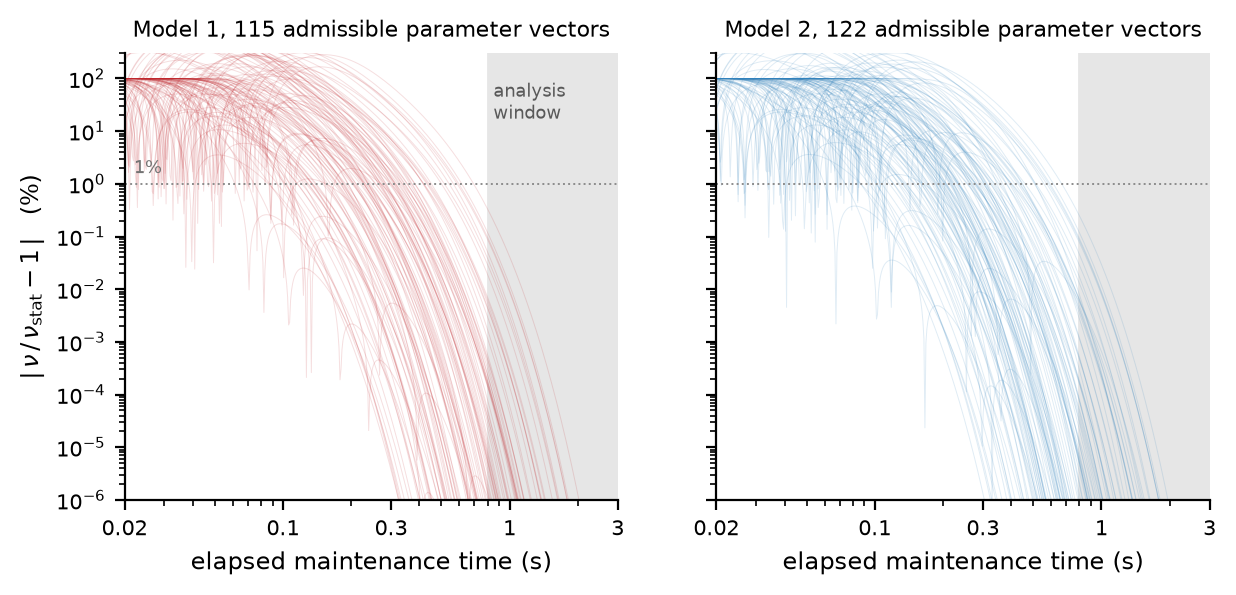
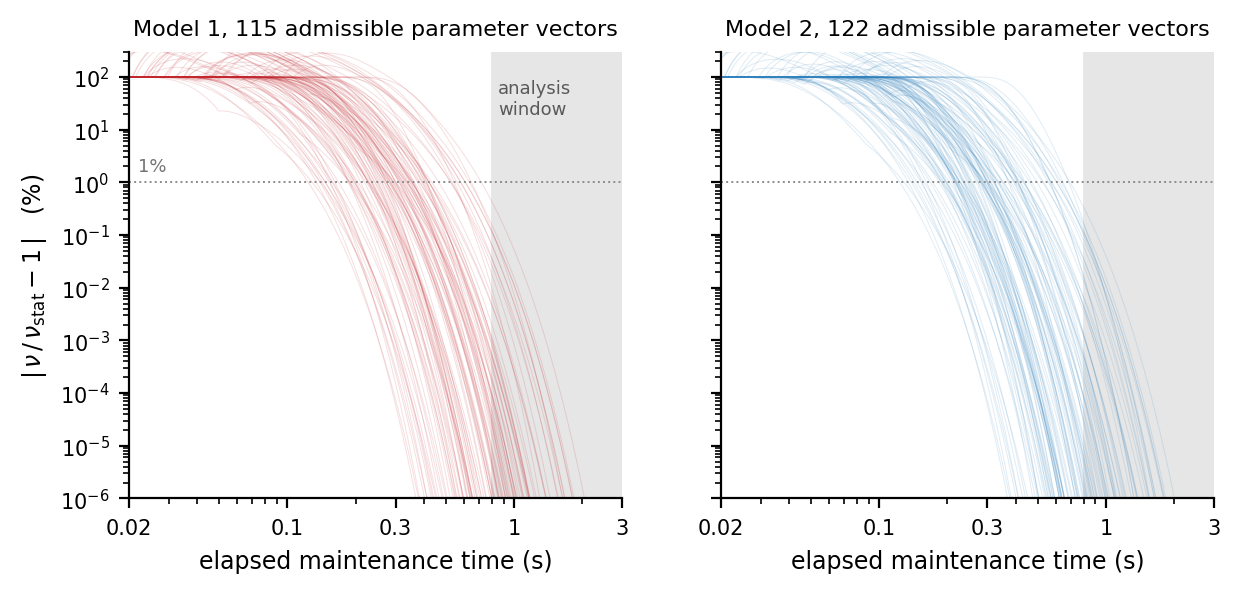
delay.tex, fig_approx_error.py, fig09: absorption, s_resp, Appendix corrections, approximation error over |m|, supplementary links
- Delay window (theory, results, model-data comparison, fig:shape caption): statements
  about Model 1's slope and curvature restricted to its stationary rate; departures of
  the simulated slope from zero attributed to the exclusion of the response-related
  activation (lowers the slope) and to the measurement on trials that did not respond
  before the RS (direction not fixed)
- Remark rem:scope, item 2: conditioning on survival described without a sign; the
  following "bounds from above" sentence replaced
- s_resp defined as the sign of y at maintenance onset; the choice stated as s_resp,
  the sign of y when accumulation stops
- Appendix: bound of the transient coefficients (1 or sqrt(lambda/kappa_eps)); (P1)
  range (0,1); eta < 1 added to the hypothesis of Corollary A.3; amplification of the
  third factor in its comment; title of Corollary A.4 on the stationary rate; sentence
  on the 20% error over the sampled box removed
- fig_approx_error.py: error taken as the largest over |m| from 0 to theta, and
  evaluated at the window start rho = 0.8 s; fig09 regenerated; text and caption values
  4.2e-3 (Model 1) and 3.3e-3 (Model 2)
- Supplemental Material: \theHfigure and \theHtable redefined; the three Results
  equations that repeat an Appendix equation with \tag set as equation*

Claude-Session: https://claude.ai/code/session_01RY8xm2Aka4qxgzj8hd5y2y

diff --git a/manuscript/latex/delay.tex b/manuscript/latex/delay.tex
@@ -177,7 +177,7 @@ The delayed-report extension specifies the locus and onset of maintenance, the m
 m = \begin{cases} s_{\mathrm{resp}}\theta, & \text{if } \theta \text{ was reached},\\ y(L_{\mathrm{motion}}+D), & \text{otherwise},\end{cases}
 \label{eq:m}
 \end{equation}
-where $s_{\mathrm{resp}}\in\{-1,+1\}$ codes the selected response, with $-1$ denoting the left-hand response and $+1$ the right-hand response, following the sign convention defined for $y(t)$. If the internal threshold $\theta$ is reached, $y(t)$ is set to the threshold value in the selected direction. Otherwise, the state attained when encoded motion evidence ceases is retained. Thus, the model does not require every trial to enter maintenance at the same level of motor preparation: weaker or briefer evidence can leave a lower maintained state.
+where $s_{\mathrm{resp}}:=\operatorname{sign}y(\tau)\in\{-1,+1\}$, the sign of the motor-preparatory signal at maintenance onset, codes the selected response, with $-1$ denoting the left-hand response and $+1$ the right-hand response, following the sign convention defined for $y(t)$. If the internal threshold $\theta$ is reached, $y(t)$ is set to the threshold value in the selected direction. Otherwise, the state attained when encoded motion evidence ceases is retained. Thus, the model does not require every trial to enter maintenance at the same level of motor preparation: weaker or briefer evidence can leave a lower maintained state.
 
 \emph{Maintenance dynamics.} The maintenance mechanism is identical in the two candidate models. Once maintenance begins, the input to the low-pass filter generating $y(t)$ switches from the evolving decision variable $x(t)$ to the maintenance target $m$. Because the filter causes $y(t)$ to track its input, a constant input $m$ causes $y(t)$ to converge toward $m$ and remain there in the absence of noise. Such stable maintenance has a plausible neural basis in attractor dynamics, in which strong recurrent interactions can sustain a stable activity state after the external evidence driving the system is no longer present \parencite{wangDecisionMakingRecurrent2008}. At the same time, neural activity within such recurrent networks is intrinsically variable, making perfectly stationary maintenance at the single-trial level unlikely. To capture this variability without specifying its detailed circuit-level origin, we allowed the effective maintenance input to fluctuate around $m$. These fluctuations, denoted $\varepsilon(t)$, followed an Ornstein--Uhlenbeck process:
 \begin{equation}
@@ -288,7 +288,7 @@ The first subsection concerns accuracy, RT, premotor time and motor time. Each o
 
 The two models differ in one term, the temporal preparation of magnitude $\beta$, which enters through $\delta:=t_{\mathrm{RS}}-t_{\mathrm{offset}}=3+L_{\mathrm{RS}}-L_{\mathrm{motion}}$. Stimulus duration cancels from $\delta$, so temporal preparation adds the same amount in all six coherence $\times$ duration conditions and can generate no effect of coherence, of duration, or of their interaction. Every prediction below therefore holds in both models, with the same sign.
 
-The choice is the sign of $x$ when accumulation stops. By Equation~\eqref{eq:x} its drift is $skc$, so accuracy rises with coherence and with the time for which Equation~\eqref{eq:x} runs, hence with duration. The duration benefit is confined to intermediate coherence, which is a coherence $\times$ duration interaction on accuracy: at $c=0$ the drift vanishes and accuracy is 50\% whatever the duration, and at the highest coherence the threshold $\theta$ is typically reached within the short stimulus, so accumulation stops before the extra time can be used.
+The choice is $s_{\mathrm{resp}}$, the sign of $y$ when accumulation stops. The signal $y$ follows $x$ (Equation~\eqref{eq:y}), whose drift is $skc$ by Equation~\eqref{eq:x}, so accuracy rises with coherence and with the time for which Equation~\eqref{eq:x} runs, hence with duration. The duration benefit is confined to intermediate coherence, which is a coherence $\times$ duration interaction on accuracy: at $c=0$ the drift vanishes and accuracy is 50\% whatever the duration, and at the highest coherence the threshold $\theta$ is typically reached within the short stimulus, so accumulation stops before the extra time can be used.
 
 After the RS, the second accumulation carries the signal from the maintenance target $m$ to the response criterion, at the drift $\mu_{\mathrm{RS}}$ of Equation~\eqref{eq:q}, which does not depend on the condition. Coherence and duration therefore act on RT only through $m$ (Appendix, Remark~\ref{rem:leak}). By Equation~\eqref{eq:m}, $m$ is $s_{\mathrm{resp}}\theta$ on trials that reached the threshold and $y(L_{\mathrm{motion}}+D)$ on the others. Higher coherence or longer stimulus duration increases $|m|$ on average, which shortens RT. Once the threshold is reached, however, $|m|$ is fixed at $\theta$. After a longer stimulus, more trials reach $\theta$, which reduces the differences in $|m|$ across coherence levels. At most parameter values, this produces a coherence $\times$ duration interaction on RT: the coherence effect is larger after the 0.3-s stimulus than after the 2-s stimulus.
 
@@ -356,24 +356,24 @@ a(t):=\frac{g-|m|-\dfrac{\beta}{\delta}\left(t-t_{\mathrm{offset}}\right)^{+}}{\
 \label{eq:a}
 \end{equation}
 Here $(t-t_{\mathrm{offset}})^{+}$ is the time elapsed since the internal stimulus offset, set to zero before it. Temporal preparation reduces the distance to the gate at the constant speed $\beta/\delta$. As long as $a(t)$ is positive, a smaller value means that motor preparation is closer to the gate relative to the fluctuations, which makes partial muscle activations more frequent. Writing $\sigma_{\dot{H}}$ for the standard deviation of the time derivative of the settled fluctuation and $\omega:=\sqrt{\lambda\kappa_{\varepsilon}}$ for its characteristic frequency, the rate on the window is its stationary form:
-\begin{equation}
+\begin{equation*}
 \nustat(t)=\varphi\left(a(t)\right)\left[\frac{\beta}{\delta\sigma_{H}}\Phi\left(\frac{\beta}{\delta\sigma_{\dot{H}}}\right)+\omega\,\varphi\left(\frac{\beta}{\delta\sigma_{\dot{H}}}\right)\right],
 \tag{\ref{eq:nu_asymp}}
-\end{equation}
-where $\varphi$ and $\Phi$ are the standard normal density and distribution function. Evaluated exactly over the admissible parameter vectors, the exact rate and its stationary form differ by at most $3.1\times10^{-3}$ in relative terms under Model 1 and $2.3\times10^{-3}$ under Model 2 (Fig.~\ref{fig:approx}; Appendix, Corollary~\ref{cor:approx}). Setting $\beta=0$ (Model 1) makes $a(t)$ constant, equal to $a=(g-|m|)/\sigma_{H}$, and recovers the classical Rice formula, in which the rate falls as a Gaussian in the standardized distance to the gate:
-\begin{equation}
+\end{equation*}
+where $\varphi$ and $\Phi$ are the standard normal density and distribution function. Evaluated exactly over the admissible parameter vectors and over maintenance targets $|m|$ from 0 to $\theta$, the exact rate and its stationary form differ by at most $4.2\times10^{-3}$ in relative terms under Model 1 and $3.3\times10^{-3}$ under Model 2 (Fig.~\ref{fig:approx}; Appendix, Corollary~\ref{cor:approx}). Setting $\beta=0$ (Model 1) makes $a(t)$ constant, equal to $a=(g-|m|)/\sigma_{H}$, and recovers the classical Rice formula, in which the rate falls as a Gaussian in the standardized distance to the gate:
+\begin{equation*}
 \nustat=\frac{\omega}{2\pi}e^{-a^{2}/2}.
 \tag{\ref{eq:nu1}}
-\end{equation}
+\end{equation*}
 Three properties of the delay-window partial muscle activation rate follow: whether it ramps over the window, the shape of any ramp, and how its level differs across conditions.
 
 \paragraph{The slope}
 
-Under Model 1 the numerator of $a$ is the constant $g-|m|$ and the denominator is constant as well, so by Equation~\eqref{eq:nu1} the rate does not depend on time. Model 1 predicts a slope of zero, at every value of $\kappa_{\varepsilon}$, of $\lambda$, and of the maintenance target (Appendix, Corollary~\ref{cor:flat}). Under Model 2 the numerator falls at the constant speed $\beta/\delta$, so the rate rises throughout the delay. Taking logarithms in Equation~\eqref{eq:nu_asymp} gives that rise in closed form (Appendix, Corollary~\ref{cor:logslope}):
-\begin{equation}
+Under Model 1 the numerator of $a$ is the constant $g-|m|$ and the denominator is constant as well, so by Equation~\eqref{eq:nu1} the stationary rate does not depend on time. Model 1's stationary rate has a slope of zero, at every value of $\kappa_{\varepsilon}$, of $\lambda$, and of the maintenance target (Appendix, Corollary~\ref{cor:flat}). Under Model 2 the numerator falls at the constant speed $\beta/\delta$, so the rate rises throughout the delay. Taking logarithms in Equation~\eqref{eq:nu_asymp} gives that rise in closed form (Appendix, Corollary~\ref{cor:logslope}):
+\begin{equation*}
 \frac{\dd\left(\ln\nustat\right)}{\dd t}(t)=\frac{\beta}{\delta\sigma_{H}}\,a(t), \qquad \frac{\dd^{2}\left(\ln\nustat\right)}{\dd t^{2}}(t)=-\left(\frac{\beta}{\delta\sigma_{H}}\right)^{2}.
 \tag{\ref{eq:slope}}
-\end{equation}
+\end{equation*}
 The observed slope is that of the rate, not of its logarithm. The time derivative of the rate,
 \begin{equation*}
 \frac{\dd\nustat}{\dd t}(t)=\nustat(t)\,\frac{\beta}{\delta\sigma_{H}}\,a(t),
@@ -382,7 +382,7 @@ is the product of two quantities: how often partial muscle activations occur, an
 
 \paragraph{The curvature}
 
-Under Model 1 the rate is constant, so its curvature is zero at every parameter value. Under Model 2, the mean rate of a condition is convex wherever the rate-weighted mean of $a(t)^{2}$ exceeds 1 (Appendix, Corollary~\ref{cor:logslope}), in particular wherever every contributing trial stands more than one fluctuation standard deviation from the gate. A positive curvature is therefore excluded by Model 1 and produced by Model 2 over that part of its parameter space.
+Under Model 1 the stationary rate is constant, so its curvature is zero at every parameter value. Under Model 2, the mean rate of a condition is convex wherever the rate-weighted mean of $a(t)^{2}$ exceeds 1 (Appendix, Corollary~\ref{cor:logslope}), in particular wherever every contributing trial stands more than one fluctuation standard deviation from the gate. A positive curvature is therefore absent from Model 1's stationary rate and produced by Model 2 over that part of its parameter space.
 
 \paragraph{The coherence $\times$ duration interaction}
 
@@ -395,9 +395,9 @@ The two EEG measures provide complementary indices of effector-selective prepara
 
 \paragraph{Partial muscle activation rate}
 
-Figure~\ref{fig:pmaeeg}A shows that the partial muscle activation rate continued to increase during the delay. Its slope across the delay window was 0.560 s$^{-2}$ [0.364, 0.757] (F(1,21) = 35.24, p < .001, $\eta_{p}^{2}$ = 0.627; Table~\ref{tab:pma}). This increase is best attributed to temporal preparation rather than to continued evidence accumulation: the effect of coherence on the slope, the marker of accumulation, was not significant in this window (F(1.70,35.61) = 0.52, p = .567, $\eta_{p}^{2}$ = 0.024), nor was its interaction with duration (F(1.74,36.45) = 0.51, p = .580, $\eta_{p}^{2}$ = 0.024). Model 1 cannot produce this slope at any parameter value (Theoretical predictions, above).
+Figure~\ref{fig:pmaeeg}A shows that the partial muscle activation rate continued to increase during the delay. Its slope across the delay window was 0.560 s$^{-2}$ [0.364, 0.757] (F(1,21) = 35.24, p < .001, $\eta_{p}^{2}$ = 0.627; Table~\ref{tab:pma}). This increase is best attributed to temporal preparation rather than to continued evidence accumulation: the effect of coherence on the slope, the marker of accumulation, was not significant in this window (F(1.70,35.61) = 0.52, p = .567, $\eta_{p}^{2}$ = 0.024), nor was its interaction with duration (F(1.74,36.45) = 0.51, p = .580, $\eta_{p}^{2}$ = 0.024). Model 1's stationary rate is constant at every parameter value (Theoretical predictions, above).
 
-The rate did not merely rise; it accelerated. Its curvature was 0.210 s$^{-3}$ [0.109, 0.310] (F(1,21) = 18.89, p < .001, $\eta_{p}^{2}$ = 0.474), the sign Model 1 excludes. Neither duration (F(1,21) = 0.75, p = .396) nor coherence (F(1.95,40.89) = 1.86, p = .170) modulated the curvature.
+The rate did not merely rise; it accelerated. Its curvature was 0.210 s$^{-3}$ [0.109, 0.310] (F(1,21) = 18.89, p < .001, $\eta_{p}^{2}$ = 0.474), a sign absent from Model 1's stationary rate. Neither duration (F(1,21) = 0.75, p = .396) nor coherence (F(1.95,40.89) = 1.86, p = .170) modulated the curvature.
 
 The mean rate was higher after the 2-s than after the 0.3-s stimulus (F(1,21) = 33.19, p < .001, $\eta_{p}^{2}$ = 0.612), and this difference increased over the window (duration effect on the slope: F(1,21) = 11.90, p = .002, $\eta_{p}^{2}$ = 0.362). This is the reverse of the ordering seen in the stimulus-onset window, consistent with the different temporal alignment of the two windows. The mean rate was higher at higher coherence (F(1.96,41.15) = 3.36, p = .045, $\eta_{p}^{2}$ = 0.138), and a duration $\times$ coherence interaction (F(1.92,40.42) = 3.47, p = .042, $\eta_{p}^{2}$ = 0.142) showed a larger coherence effect after the 2-s than after the 0.3-s stimulus. This is the direction the derivation allows only where the 0\%-coherence, 2-s condition has mostly not reached $\theta$ (Theoretical predictions, above). It is also the opposite of the coherence $\times$ duration interaction on mean premotor time, whose coherence effect was larger after the 0.3-s stimulus. Selective exclusion of the most prepared trials through responses before the RS is an unlikely explanation, because such responses were rare (Fig.~\ref{fig:premature}).
 
@@ -416,7 +416,7 @@ Six effects were compared (Table~\ref{tab:comparison}; Fig.~\ref{fig:effects}O--
 
 \paragraph{The slope}
 
-The slope of Model 1's rate is zero (Corollary~\ref{cor:flat}). Over its 115 admissible vectors, the simulated slope ranges from $-$0.069 to 0.004 s$^{-2}$, and no vector reproduces the observed 0.560 s$^{-2}$ [0.364, 0.757]. The negative values come from the measurement, not from the model: the activation that becomes the response is excluded from the partial muscle activation count wherever it begins, and in the model it occasionally begins inside the last bins of the window (Appendix, Remark~\ref{rem:scope}). Over Model 2's 122 vectors the slope ranges from $-$0.039 to 0.956 s$^{-2}$, and 6 vectors reproduce the observed value. Figure~\ref{fig:shape} shows the profiles: every admissible vector of Model 1 is flat, whereas Model 2's fan out, many of them tracking the observed rise.
+The slope of Model 1's stationary rate is zero (Corollary~\ref{cor:flat}). Over its 115 admissible vectors, the simulated slope ranges from $-$0.069 to 0.004 s$^{-2}$, and no vector reproduces the observed 0.560 s$^{-2}$ [0.364, 0.757]. These values depart from zero because of the measurement, not of the stationary rate (Appendix, Remark~\ref{rem:scope}). The activation that becomes the response is excluded from the partial muscle activation count wherever it begins, and in the model it occasionally begins inside the last bins of the window, which lowers the slope. The rate is measured on the trials that did not respond before the RS, which changes it in a direction the derivation does not fix. Over Model 2's 122 vectors the slope ranges from $-$0.039 to 0.956 s$^{-2}$, and 6 vectors reproduce the observed value. Figure~\ref{fig:shape} shows the profiles: every admissible vector of Model 1 is flat, whereas Model 2's fan out, many of them tracking the observed rise.
 
 The duration effect on the slope (2 s minus 0.3 s; 0.135 s$^{-2}$ [0.054, 0.217]) separates the models in the same way. No Model 1 vector reproduces it (values from $-$0.047 to 0.006 s$^{-2}$; observed sign at 5 vectors, opposite sign at 30, uncertain at 80), whereas 17 Model 2 vectors do (values from $-$0.027 to 0.726 s$^{-2}$; observed sign at 81, opposite at 9, uncertain at 32).
 
@@ -528,7 +528,7 @@ In conclusion, delayed decision reports are not generated by storing an abstract
 
 \begin{center}\includegraphics[width=\linewidth]{figures/fig07.png}\end{center}
 
-\captionof{figure}{\textbf{Shape of the delay-window partial muscle activation rate, one line per admissible parameter vector.} Each thin line is the delay-window partial muscle activation rate at one admissible vector, divided by its own mean over the window, so that vectors whose rates differ by two orders of magnitude can be compared on shape; the thick line is the median over vectors and the black points the observed profile, normalized the same way. Every admissible vector of Model 1 is flat, as Corollary~\ref{cor:flat} requires, apart from a decline in the last bins caused by the exclusion of the response-related activation from the partial muscle activation count (Remark~\ref{rem:scope}); Model 2's vectors fan out, many of them tracking the observed rise.}\label{fig:shape}
+\captionof{figure}{\textbf{Shape of the delay-window partial muscle activation rate, one line per admissible parameter vector.} Each thin line is the delay-window partial muscle activation rate at one admissible vector, divided by its own mean over the window, so that vectors whose rates differ by two orders of magnitude can be compared on shape; the thick line is the median over vectors and the black points the observed profile, normalized the same way. Every admissible vector of Model 1 is flat, as Corollary~\ref{cor:flat} requires of the stationary rate, apart from departures in the last bins caused by the measurement (Remark~\ref{rem:scope}); Model 2's vectors fan out, many of them tracking the observed rise.}\label{fig:shape}
 
 \begin{center}\includegraphics[width=\linewidth]{figures/fig08.png}\end{center}
 
@@ -536,7 +536,7 @@ In conclusion, delayed decision reports are not generated by storing an abstract
 
 \begin{center}\includegraphics[width=\linewidth]{figures/fig09.png}\end{center}
 
-\captionof{figure}{\textbf{Error of the stationary approximation, over the admissible parameter vectors.} Each thin line is one admissible vector: the relative difference between the exact partial muscle activation rate, Equation~\eqref{eq:nu2} with the transient moments of Equation~\eqref{eq:moments}, and its stationary form, Equation~\eqref{eq:nu_asymp}, as a function of elapsed maintenance time. Both axes are logarithmic. The shaded band marks elapsed maintenance times of 0.8 s and more, which contain the whole delay analysis window (Proposition~\ref{prop:stationary}). Left, Model 1; right, Model 2. Inside the window the largest departure is 0.31\% under Model 1 and 0.23\% under Model 2.}\label{fig:approx}
+\captionof{figure}{\textbf{Error of the stationary approximation, over the admissible parameter vectors.} Each thin line is one admissible vector: the largest, over maintenance targets $|m|$ from 0 to $\theta$, of the relative difference between the exact partial muscle activation rate, Equation~\eqref{eq:nu2} with the transient moments of Equation~\eqref{eq:moments}, and its stationary form, Equation~\eqref{eq:nu_asymp}, as a function of elapsed maintenance time. Both axes are logarithmic. The shaded band marks elapsed maintenance times of 0.8 s and more, which contain the whole delay analysis window (Proposition~\ref{prop:stationary}). Left, Model 1; right, Model 2. Inside the window the largest departure is 0.42\% under Model 1 and 0.33\% under Model 2.}\label{fig:approx}
 
 
 \section{Tables}
@@ -692,7 +692,7 @@ At every time $t$ of the delay analysis window, and over the ranges of Table~\re
 \end{equation}
 \end{proposition}
 
-Each moment of $H$ is the corresponding stationary moment plus terms proportional to $e^{-\lambda\rho}$ or $e^{-2\lambda\rho}$, whose coefficients are correlations, hence at most 1 in absolute value. On the window, $e^{-\lambda\rho}$ is small.
+Each moment of $H$ is the corresponding stationary moment plus terms proportional to $e^{-\lambda\rho}$ or $e^{-2\lambda\rho}$, whose coefficients are bounded in absolute value by 1 or by $\sqrt{\lambda/\kappa_{\varepsilon}}$. On the window, $e^{-\lambda\rho}$ is small.
 
 \begin{proof}
 Write $t:=\tau+\rho$. By Proposition~\ref{prop:H}(i) and Equation~\eqref{eq:Hdot},
@@ -729,7 +729,7 @@ The Kac--Rice formula gives the rate of upcrossings as the density of the proces
 \begin{equation}\label{eq:Psi}
 \Psi(x,\zeta):=\E\left[\xi^{+}\right]=x\Phi(x/\zeta)+\zeta\varphi(x/\zeta).
 \end{equation}
-Three properties are used below. (P1) The partial derivatives are $\partial\Psi/\partial x=\Phi(x/\zeta)\in(0,1]$ and $\partial\Psi/\partial\zeta=\varphi(x/\zeta)\in(0,\varphi(0)]$; both follow from $\varphi'(x)=-x\varphi(x)$, which makes the terms in $(x/\zeta)\varphi(x/\zeta)$ cancel. (P2) $\Psi(cx,c\zeta)=c\Psi(x,\zeta)$ for $c>0$. (P3) $\Psi(0,\zeta)=\zeta\varphi(0)$.
+Three properties are used below. (P1) The partial derivatives are $\partial\Psi/\partial x=\Phi(x/\zeta)\in(0,1)$ and $\partial\Psi/\partial\zeta=\varphi(x/\zeta)\in(0,\varphi(0)]$; both follow from $\varphi'(x)=-x\varphi(x)$, which makes the terms in $(x/\zeta)\varphi(x/\zeta)$ cancel. (P2) $\Psi(cx,c\zeta)=c\Psi(x,\zeta)$ for $c>0$. (P3) $\Psi(0,\zeta)=\zeta\varphi(0)$.
 
 \paragraph{The general rate.} Throughout this subsection, $d=d(t)$ and the moments of Equation~\eqref{eq:moments} are taken at $\rho=t-\tau$. Let $Z\left(t\right):={s}_{\mathrm{resp}}H\left(t\right)-d\left(t\right)$. Upcrossings of $d$ by ${s}_{\mathrm{resp}}H$ are upcrossings of zero by $Z$, and $\dot{Z}={s}_{\mathrm{resp}}\dot{H}+\beta /\delta$. Trajectories that reach the response criterion before the end of the delay are neglected. They are premature responses, excluded from the empirical analysis and, together with the other excluded trials, held to at most 20\% of the trials of each condition by the admissibility screen. Since $H$ has continuously differentiable paths and $\left(Z,\dot{Z}\right)$ is jointly Gaussian and non-degenerate for $\rho >0$, the Kac--Rice formula gives the expected upcrossing rate \parencite[ch. 3]{azaisLevelSetsExtrema2009}:
 \begin{equation}
@@ -758,7 +758,7 @@ for the distance to the gate in units of the fluctuation, the characteristic fre
 It is the product of two factors. The first is a Gaussian in the standardized distance to the gate; this is where the conditions and the time within the delay act. The second, $\Psi(b,\omega)$, depends on neither the motion coherence nor the stimulus duration, and temporal preparation enters it only through $b$.
 
 \begin{corollary}[error of the stationary rate]\label{cor:approx}
-Let $t$ be a time in the delay analysis window, $a:=a(t)$, and $\eta :=\max \left(\left|u\left(\rho \right)\right|,\left|v\left(\rho \right)\right|,\left|w\left(\rho \right)\right|\right)$, with $u$, $v$ and $w$ as in Equation~\eqref{eq:moments}. If
+Let $t$ be a time in the delay analysis window, $a:=a(t)$, and $\eta :=\max \left(\left|u\left(\rho \right)\right|,\left|v\left(\rho \right)\right|,\left|w\left(\rho \right)\right|\right)$, with $u$, $v$ and $w$ as in Equation~\eqref{eq:moments}. If $\eta<1$ and
 \begin{equation*}
 \left(\sqrt{2\pi}|a|+1\right)\frac{\eta}{1-\eta}\le\frac{1}{2},
 \end{equation*}
@@ -768,10 +768,10 @@ then
 \end{equation*}
 \end{corollary}
 
-The ratio of the two rates is a product of three factors. Each departs from 1 by a relative amount of order $\eta$. The first, a Gaussian density evaluated at the distance to the gate, amplifies that departure by $a^{2}/2$.
+The ratio of the two rates is a product of three factors. Each departs from 1 by a relative amount of order $\eta$. The first, a Gaussian density evaluated at the distance to the gate, amplifies that departure by $a^{2}/2$. The third, the expected positive part of the slope at the gate, amplifies it by $\sqrt{2\pi}|a|+1$.
 
 \begin{proof}
-Write $u:=u(\rho)$, $v:=v(\rho)$ and $w:=w(\rho)$. The hypothesis implies $\eta<1$, so $1+u\ge 1-\eta>0$. Two elementary facts are used. (F1) $|\ln(1+x)|\le|x|/(1-|x|)$ for $|x|<1$; this follows from $\ln(1+x)\le x$ for $x\ge 0$, and from $-\ln(1-|x|)=\ln\left(1+|x|/(1-|x|)\right)$ for $x<0$. (F2) $|\sqrt{1+z}-1|=|z|/(\sqrt{1+z}+1)\le|z|$ for $z>-1$.
+Write $u:=u(\rho)$, $v:=v(\rho)$ and $w:=w(\rho)$. Since $\eta<1$, $1+u\ge 1-\eta>0$. Two elementary facts are used. (F1) $|\ln(1+x)|\le|x|/(1-|x|)$ for $|x|<1$; this follows from $\ln(1+x)\le x$ for $x\ge 0$, and from $-\ln(1-|x|)=\ln\left(1+|x|/(1-|x|)\right)$ for $x<0$. (F2) $|\sqrt{1+z}-1|=|z|/(\sqrt{1+z}+1)\le|z|$ for $z>-1$.
 
 \emph{The ratio as a product.} By Equation~\eqref{eq:moments}, $\sigma_{H}(\rho)=\sigma_{H}\sqrt{1+u}$, so $d/\sigma_{H}(\rho)=a/\sqrt{1+u}$. By (P2), $\nustat(t)=\varphi(a)\Psi\left(\beta/\delta,\sigma_{\dot{H}}\right)/\sigma_{H}$. Dividing Equation~\eqref{eq:nu2} by this expression,
 \begin{equation*}
@@ -813,9 +813,9 @@ and $\bar{x}\le 1/2$ by hypothesis. By (F1), its logarithm is at most $\bar{x}/(
 
 \end{proof}
 
-The moment error is therefore amplified by the squared standardized distance to the gate: $a\left(t\right)$ enters the rate through a Gaussian, so what the transient does to ${\sigma }_{H}^{2}$ it does to the log rate ${a\left(t\right)}^{2}/2$ times over. By Proposition~\ref{prop:stationary}, $\eta <4.8\times {10}^{-3}$ everywhere in the window, so the hypothesis holds whenever $|a(t)|\le 40$. Evaluated exactly, the largest relative departure of $\nu \left(t\right)$ (Equation~\eqref{eq:nu2} at the moments of Equation~\eqref{eq:moments}) from $\nustat \left(t\right)$ (Equation~\eqref{eq:nu_asymp}), over the admissible parameter vectors and the whole window, is $3.1\times {10}^{-3}$ under Model 1 and $2.3\times {10}^{-3}$ under Model 2 (Figure~\ref{fig:approx}). Over the whole sampled box it reaches 20\%, on parameter vectors whose standardized distance to the gate is close to 40 and whose rate is therefore far too small to be measured; admissibility caps that distance, and with it the amplification.
+The moment error is therefore amplified by the squared standardized distance to the gate: $a\left(t\right)$ enters the rate through a Gaussian, so what the transient does to ${\sigma }_{H}^{2}$ it does to the log rate ${a\left(t\right)}^{2}/2$ times over. By Proposition~\ref{prop:stationary}, $\eta <4.8\times {10}^{-3}$ everywhere in the window, so the hypothesis holds whenever $|a(t)|\le 40$. Evaluated exactly, the largest relative departure of $\nu \left(t\right)$ (Equation~\eqref{eq:nu2} at the moments of Equation~\eqref{eq:moments}) from $\nustat \left(t\right)$ (Equation~\eqref{eq:nu_asymp}), over the admissible parameter vectors, the maintenance targets $|m|$ from 0 to $\theta$ and the whole window, is $4.2\times {10}^{-3}$ under Model 1 and $3.3\times {10}^{-3}$ under Model 2 (Figure~\ref{fig:approx}).
 
-\begin{corollary}[under Model 1 the delay-window rate is constant]\label{cor:flat}
+\begin{corollary}[under Model 1 the stationary rate is constant]\label{cor:flat}
 Under Model 1, at every parameter setting and at every time in the delay analysis window,
 \begin{equation}
 \nustat =\frac{\omega }{2\pi }{e}^{-{a}^{2}/2}, \quad a=\frac{g-\left|m\right|}{{\sigma }_{H}}.
@@ -921,11 +921,11 @@ The decomposition of Proposition~\ref{prop:duration} uses no property of the acc
 The quantity computed above is the expected upcrossing rate of an unabsorbed Gaussian process, and the quantity measured is neither of those things exactly. Three idealizations separate them.
 \begin{enumerate}
 \item In the simulations every upcrossing is counted, whereas in the recorded EMG, activity periods closer together than 25 ms are merged at detection. How often two upcrossings fall that close is set by the characteristic frequency $\omega =\sqrt{\lambda \kappa_{\varepsilon} }$. Under Model 1, merging would lower the rate by the same factor at every time in the window, so it cannot create a slope where the model predicts none.
-\item The response criterion is an absorbing boundary: a delay-window crossing that reaches it ends the trial as a premature response, and conditioning on survival destroys the Gaussianity Equation~\eqref{eq:nu} rests on. Absorption removes preferentially the trials closest to the gate, and preferentially late in the window, so it depresses the late rate and lowers the measured slope below the computed one.
+\item The response criterion is an absorbing boundary: a delay-window crossing that reaches it ends the trial as a premature response. The rate is measured on the retained trials, which did not respond before the RS, in the simulations as in the data. Conditioning on this survival removes the Gaussianity on which Equation~\eqref{eq:nu} rests, and changes the measured rate in a direction that the derivation does not fix.
 \item The activation that becomes the overt response is not a partial muscle activation and is excluded from the count wherever it begins. In the model it occasionally begins before the response signal, and therefore inside the last bins of the delay window; in the data this is essentially never so. This too removes events late in the window and lowers the measured slope.
 \end{enumerate}
 \end{remark}
-The first idealization cannot create a slope under Model 1, and the last two lower the slope. What is derived above therefore bounds from above what either model can be measured to do on the delay-window slope, and the flatness of Corollary~\ref{cor:flat} is not an artefact of them.
+The simulations include the last two idealizations exactly as the data analysis does; only the first separates the simulated count from the recorded one.
 
 
 
@@ -938,8 +938,8 @@ The first idealization cannot create a slope under Model 1, and the last two low
 
 \section{Supplemental Material}
 
-\setcounter{figure}{0}\renewcommand{\thefigure}{S\arabic{figure}}
-\setcounter{table}{0}\renewcommand{\thetable}{S\arabic{table}}
+\setcounter{figure}{0}\renewcommand{\thefigure}{S\arabic{figure}}\renewcommand{\theHfigure}{S\arabic{figure}}
+\setcounter{table}{0}\renewcommand{\thetable}{S\arabic{table}}\renewcommand{\theHtable}{S\arabic{table}}
 
 \textbf{Graded Motor-Preparatory Dynamics Preserve Perceptual Decisions over Short Delays} Johan A. Achard, Thibault Gajdos Preuss, Mathieu Servant
 

diff --git a/scripts/fig_approx_error.py b/scripts/fig_approx_error.py
@@ -10,7 +10,9 @@ lambda, so by the time the analysis window opens it is spent.  The window opens 
 the physical stimulus offset, and maintenance begins at the latest Lmotion after it, so the
 elapsed maintenance time in the window is at least 1 - Lmotion = 0.8 s.
 
-Restricted to the admissible parameter vectors, which is where the model is used.
+Restricted to the admissible parameter vectors, which is where the model is used.  For
+each vector the error is the largest over maintenance targets |m| from 0 to theta: the
+error grows with the standardized distance to the gate, which is largest at |m| = 0.
 
 Writes plots/fig_approx_error.pdf and the manuscript's copy,
 ../manuscript/latex/figures/fig09.png.  Usage: python3 fig_approx_error.py [DUMP.jsonl]
@@ -54,8 +56,9 @@ def rate_stat(l, k, s2, bd, d):
 
 import sys, os
 DUMP = sys.argv[1] if len(sys.argv) > 1 else 'results/sweep_screened.jsonl'
-rho = np.geomspace(0.02, 3.0, 500)
 RHO0 = 1.0 - 0.2          # start of the delay window in elapsed maintenance time: 1 s - Lmotion
+rho = np.unique(np.r_[np.geomspace(0.02, 3.0, 500), RHO0])
+MFRAC = np.linspace(0.0, 1.0, 41)   # |m| / theta
 fig, axes = plt.subplots(1, 2, figsize=(7.0, 2.9), sharey=True)
 for ax, mod, col, nm in [(axes[0], 'model1', C_M1, 'Model 1'),
                          (axes[1], 'model2', C_M2, 'Model 2')]:
@@ -66,11 +69,15 @@ for ax, mod, col, nm in [(axes[0], 'model1', C_M1, 'Model 1'),
         l, k, s2 = p['lam'], p['kappa'], p['SDe']**2
         beta = j['beta'] if mod == 'model2' else 0.0
         bd = beta/(3.0 + p['LRS'] - p['Lmotion'])
-        d = (p['g'] - p['theta']) - bd*rho
-        if np.any(d <= 0): continue
-        with np.errstate(all='ignore'):
-            e = np.abs(rate(rho, l, k, s2, bd, d)/rate_stat(l, k, s2, bd, d) - 1)
-        if not np.all(np.isfinite(e)): continue
+        e = np.zeros_like(rho); ok = True
+        for f in MFRAC:
+            d = (p['g'] - f*p['theta']) - bd*rho
+            if np.any(d <= 0): ok = False; break
+            with np.errstate(all='ignore'):
+                ef = np.abs(rate(rho, l, k, s2, bd, d)/rate_stat(l, k, s2, bd, d) - 1)
+            if not np.all(np.isfinite(ef)): ok = False; break
+            e = np.maximum(e, ef)
+        if not ok: continue
         ax.plot(rho, np.maximum(100*e, 1e-7), color=col, lw=.35, alpha=.15, zorder=1)
         n += 1; worst = max(worst, e[rho >= RHO0].max())
     ax.axvspan(RHO0, 3.0, color='0.90', zorder=0)
